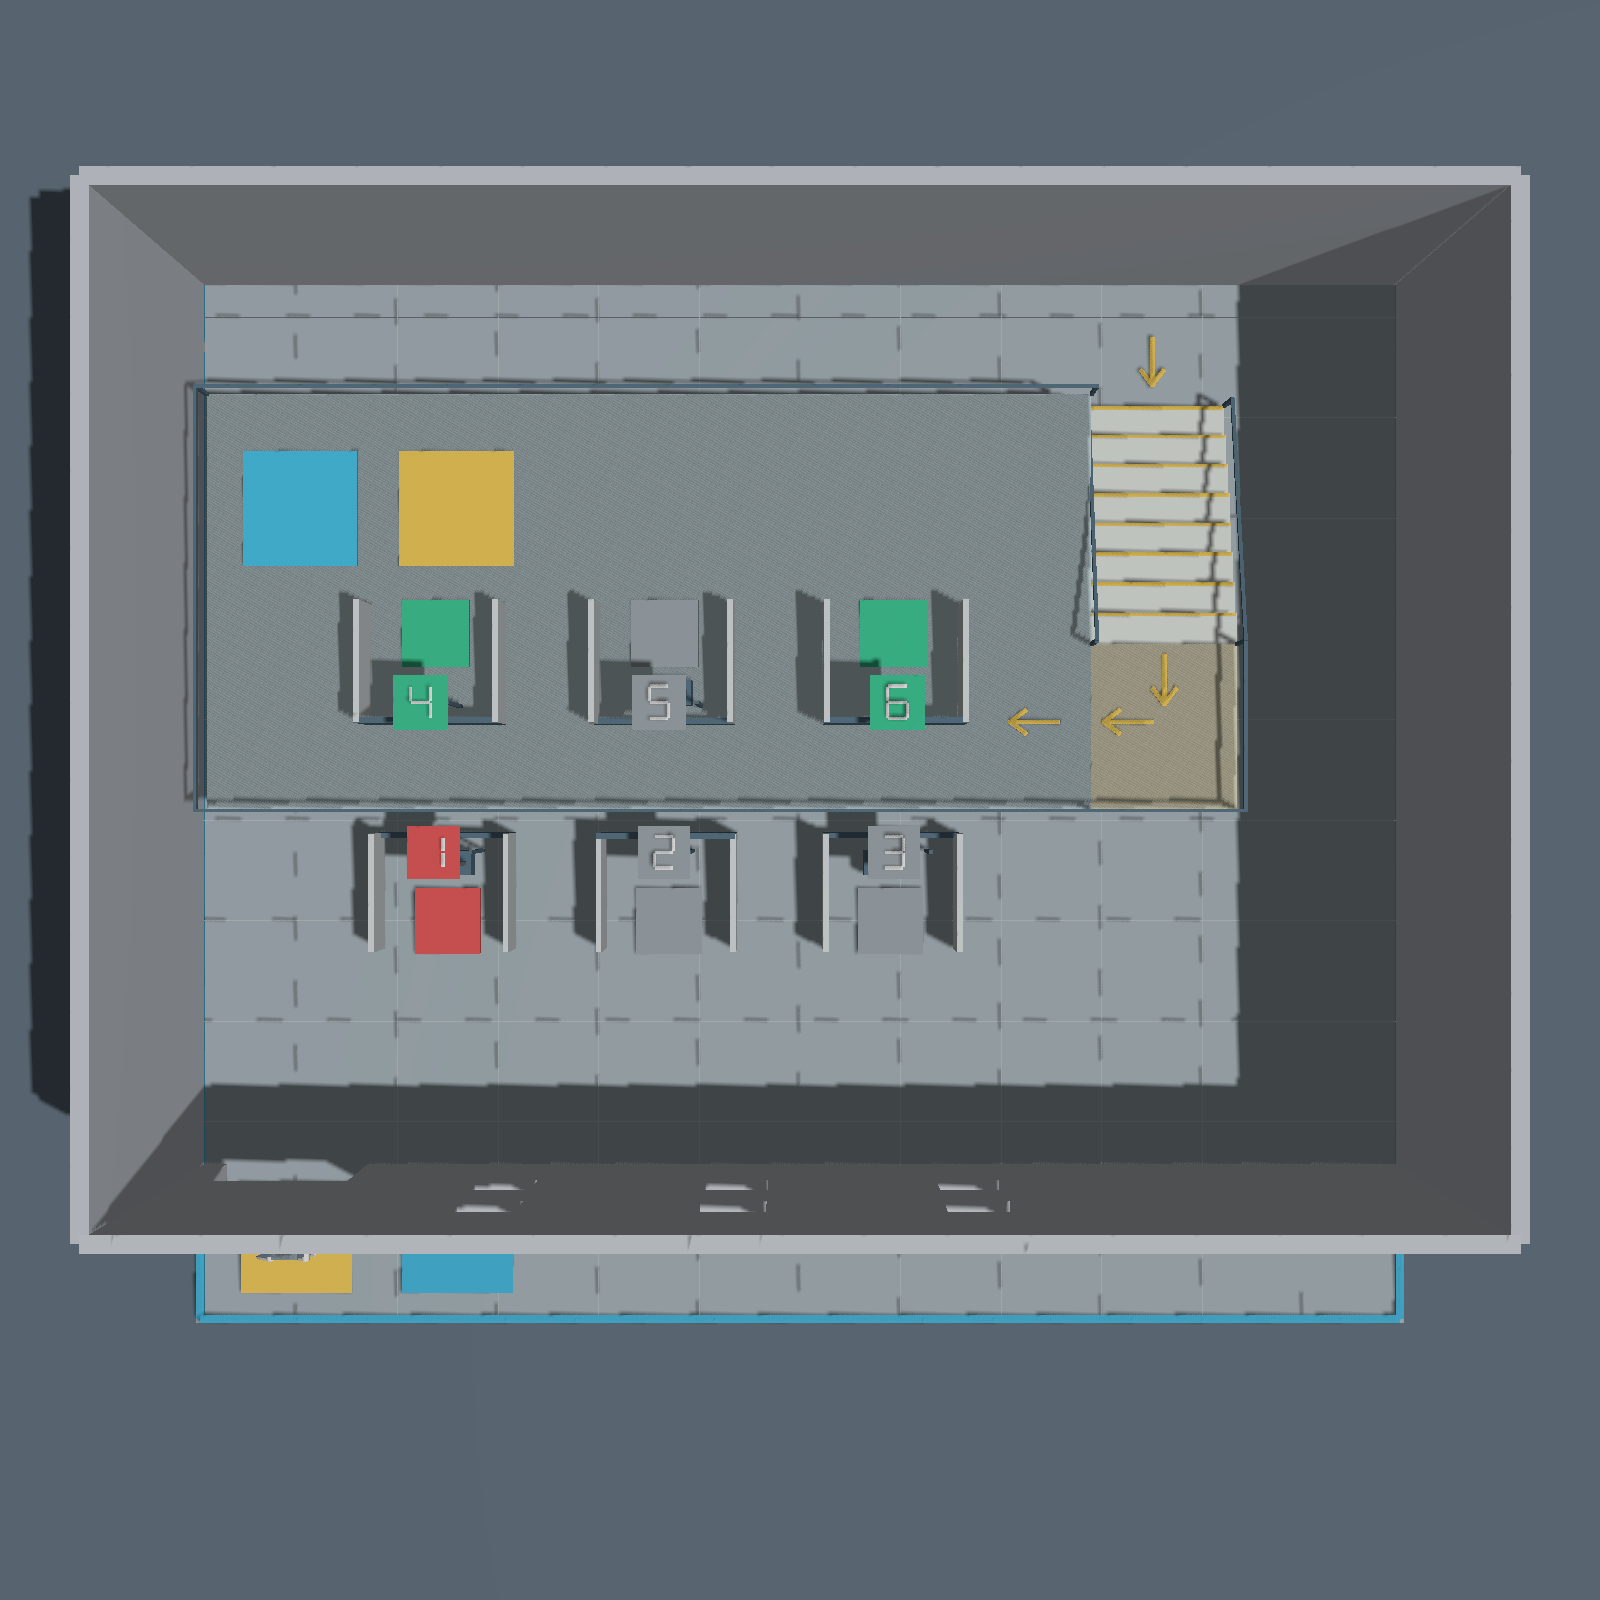
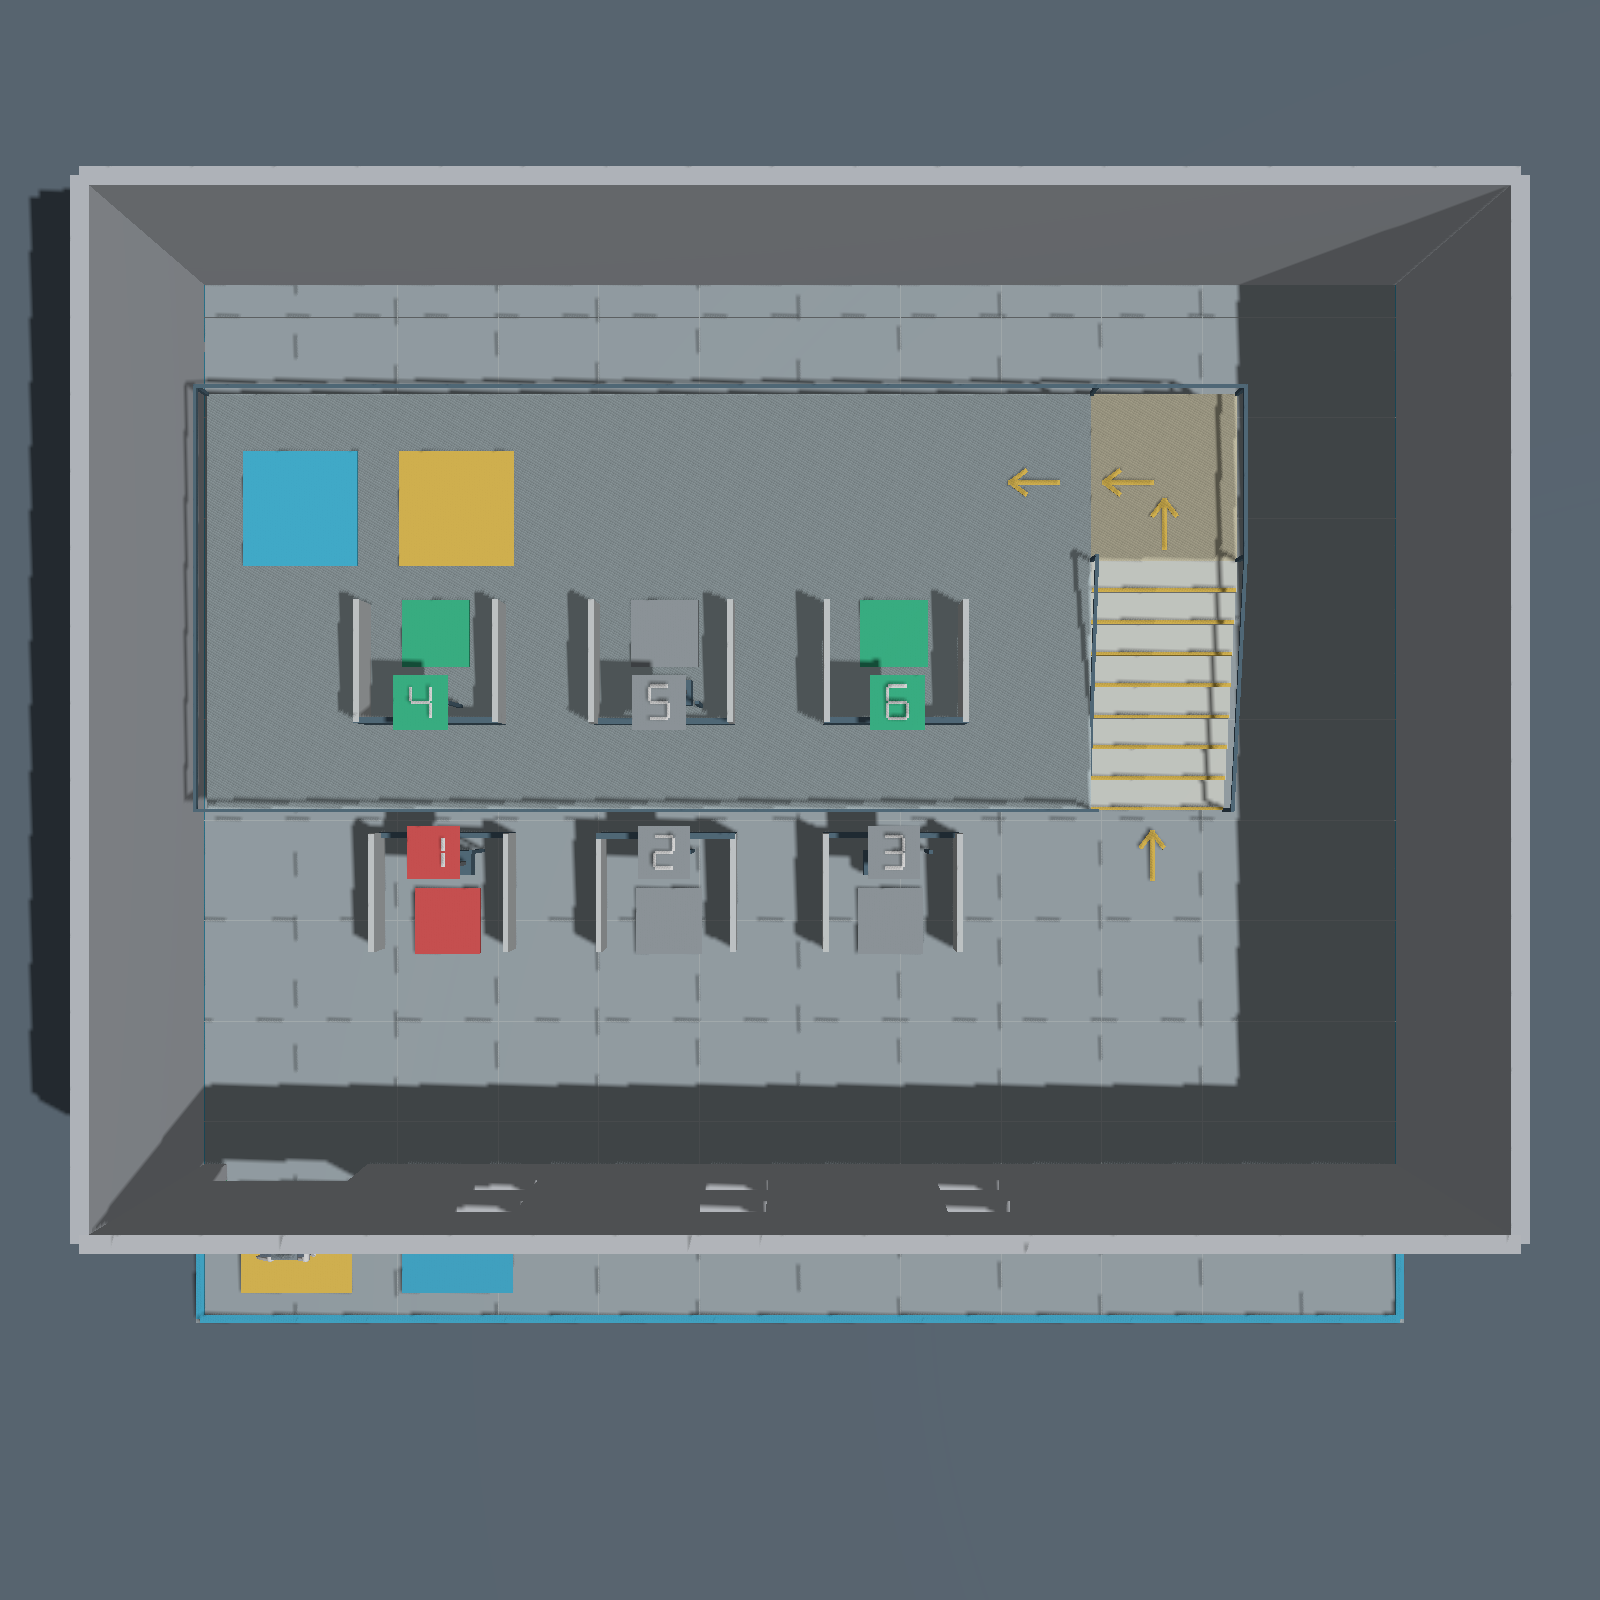
Fix staircase to enter from the lower side of the overhead map

Changed region(s): [[0.625, 0.2188, 0.7812, 0.5312]]

diff --git a/docs/MAP_VALIDATION.md b/docs/MAP_VALIDATION.md
@@ -1,29 +1,29 @@
-# 地图调整验收（2026-10-21，v1.4.0）
+# 地图调整验收（2026-10-21，v1.5.0）
 
-## 布局与边界
+## 楼梯朝向修正
 
-- 二层楼梯开口前后翻转，梯脚位于右后侧，机器狗朝 -Y 方向上楼。八级楼梯的级高 0.1 m、踏面 0.3 m、宽度 1.4 m 保持原样。
-- 为给后侧梯脚留出真实可通行的地面路线，二层整体向门口平移 1 m：外轮廓 X=0.3–10.2 m、Y=5.1–9.1 m，进深仍为 4 m、高度 0.8 m；后侧与建筑边界之间有 1.3 m 通道。机器狗先沿右侧一层通道走到后侧，再转向上楼。
-- 楼梯缺口为 X=8.8–10.2 m、Y=6.7–9.1 m；上层转向平台位于 Y=5.1–6.7 m。实体地板没有封住楼梯，全部台阶和平台碰撞箱与高度探针区域一致。
-- 1/2/3 号目标中心向图中上方移动至 Y=4.3 m，距门口更远；4/5/6 号目标位于二层下侧 Y=6.5 m，开口朝上。两排目标列中心均为 X=2.5 / 4.7 / 6.9 m；顶部数字保持正向可读。
-- 1 号目标整体最左边缘 X=1.8225 m，位于门洞右边界 X=1.7 m 以右。
-- 六扇窗的列中心收紧为 X=3.2 / 5.4 / 7.6 m，仍是上下两排的统一蓝框 0.6 × 0.6 m 开口。最右窗框边缘 X=7.95 m，比楼梯左边界 X=8.8 m 靠左 0.85 m。
-- 集合区移至二层左上角：Tello 蓝色区 `(1.2, 8.0)`，D1 黄色区 `(2.7, 8.0)`；支撑面高 0.8 m。机器狗从右侧停到黄色区，不经过无人机降落区。
+- 楼梯低端入口朝俯视图下侧，位于 Y=5.1 m；从下向上爬升，八级台阶占 Y=5.1–7.5 m，高端转向平台位于 Y=7.5–9.1 m。
+- 二层外轮廓仍为 X=0.3–10.2 m、Y=5.1–9.1 m，高度 0.8 m。楼梯宽 1.4 m、级高 0.1 m、踏面 0.3 m，内嵌于二层右侧。
+- 仅调整楼梯、平台连接及对应路线；逐项比较确认其余实体、六个目标、集合区、窗户、无人机巡航位置和两机模型保持上一版一致。
+- 1/2/3 号目标位于 Y=4.3 m；4/5/6 号目标位于二层下侧 Y=6.5 m。目标列 X=2.5 / 4.7 / 6.9 m，顶部数字正向可读。
+- 1 号目标最左边缘 X=1.8225 m，位于门洞右边界 X=1.7 m 以右。
+- 六窗列中心 X=3.2 / 5.4 / 7.6 m，净开口 0.6 × 0.6 m、统一蓝框；最右窗框 X=7.95 m，小于楼梯左边界 X=8.8 m。
+- 二层左上角集合区：蓝色 Tello `(1.2, 8.0)`，黄色 D1 `(2.7, 8.0)`。
+- 全部台阶和平台的实体碰撞箱与 `terrain.json` 高度区域一致。
 
 ## 实测
 
-默认 2 号窗完整比赛 **3/3 通过**，`strict_pass: true`，耗时 **349.601 秒仿真时间**。
-实测包含新位置穿窗、首报、D1 进门、1 号打靶、沿右侧地面绕行、后侧八级楼梯、两次投放及左上角集合。
+默认 2 号窗完整比赛 **3/3 通过**，`strict_pass: true`，用时 **293.561 秒仿真时间**。
+完成穿窗、首报、进门、打靶、从下侧梯脚爬上八级台阶、两次投放，以及左上角两机集合。
 
-- 两次投放误差：0.1279 m、0.1228 m，均小于 0.2 m。
-- D1 集合水平误差 0.0659 m；Tello 水平误差 0.0000 m，最终实际接触二层平台停稳。
-- Tello 在 337.361 秒降落并停止旋翼；此后与机器狗的最小水平距离为 1.564 m。
-- 无人机与 D1 均从规定入口入楼一次；无人机最终留在二层，`uav_exited: false` 符合本版规则。
-- D1 与 Tello 模型、动力学、步态权重和控制器保持原样；本次没有修改控制器代码，没有初始化后的机体位姿覆盖或机器狗外加抬升力。
+- 两次投放误差 0.1138 m、0.1576 m，均小于 0.2 m。
+- D1 集合误差 0.0895 m；Tello 水平误差 0.0000 m。
+- Tello 在 281.541 秒实际接触 `upper_platform` 停稳并停止旋翼；降落后与 D1 最小水平距离 1.567 m。
+- 无人机与机器狗均只从规定入口入楼一次；无人机留在二楼集合，不需要穿窗出楼。
+- 未修改控制器和冻结权重，没有初始化后的机体位姿覆盖或机器狗外加抬升力。
 
-本次验收范围为一个默认窗位的完整物理仿真，以及全部实体几何/高度区域、目标与门边界、窗框与楼梯边界核对；其余五个窗位未重复全程运行。
-使用 ROS 2 Humble / Gazebo Fortress 6.16。教师演示仍使用预设航点和已知地图高度，不代表图像自主识别。
-图像来自实际 Gazebo 相机：[俯视图](map_top.png)、[外立面](entry_facade.png)。
+验收范围为一个默认窗位的完整物理仿真和地图几何一致性检查。使用 ROS 2 Humble / Gazebo Fortress 6.16；教师演示为预设航点与已知地图高度，不代表图像自主识别。
+[实际 Gazebo 俯视图](map_top.png)。
 
 ## 复现
 
@@ -32,4 +32,3 @@ ros2 launch d1_tello_competition competition.launch.py gui:=false rate:=0 exit_o
 ```
 
 `result.json` 应包含 `strict_pass: true`、`completed_count: 3`、`uav_landed: true`、`entry_validation.passed: true` 和 `rally_validation.dog_at_rally: true`。
-历史验收：[v1.3 前侧楼梯布局](MAP_VALIDATION_V1_3.md)、[v1.2 穿窗返航流程](ENTRY_VALIDATION.md)。

diff --git a/README.md b/README.md
@@ -26,7 +26,7 @@ sudo apt install build-essential cmake python3-colcon-common-extensions \
 
 mkdir -p ~/d1_ws/src
 # 将收到的压缩包放入当前目录；解压后为 src/d1_tello_competition
-tar -xzf d1_tello_competition_student_20261021_v1.4.0.tar.gz -C ~/d1_ws/src
+tar -xzf d1_tello_competition_student_20261021_v1.5.0.tar.gz -C ~/d1_ws/src
 cd ~/d1_ws
 colcon build --packages-select d1_tello_competition --cmake-args -DCMAKE_BUILD_TYPE=Release
 source install/setup.bash
@@ -42,9 +42,9 @@ source ~/d1_ws/install/setup.bash
 ros2 launch d1_tello_competition competition.launch.py
 ```
 
-自动播放完整比赛，约 6 分钟仿真时间。窗口中可拖动、缩放查看场景；Ctrl+C 退出。
-场地为 12 × 10.4 m，二层高 0.8 m、进深 4.0 m；楼梯嵌入二层右后侧缺口，机器狗绕至后侧梯脚，朝图中下方上楼。
-二层范围为 Y=5.1–9.1 m，后侧保留 1.3 m 通道。
+自动播放完整比赛，约 5 分钟仿真时间。窗口中可拖动、缩放查看场景；Ctrl+C 退出。
+场地为 12 × 10.4 m，二层高 0.8 m、进深 4.0 m；楼梯嵌入二层右侧缺口，低端入口朝俯视图下侧，机器狗朝图中上方上楼。
+二层范围为 Y=5.1–9.1 m；梯脚在 Y=5.1 m，高端转向平台在 Y=7.5–9.1 m。
 8 级楼梯每级高 0.1 m、踏面 0.3 m、宽 1.4 m，保留上层转向平台。目标列横坐标为 2.5、4.7、6.9 m。
 1–3 号目标移至 Y=4.3 m，4–6 号目标位于二层下侧 Y=6.5 m，开口朝图中上方。
 1 号目标左边界 X=1.8225 m，在门洞右边界 X=1.7 m 以右；最右窗框边界 X=7.95 m，在楼梯左侧 X=8.8 m 以内。
